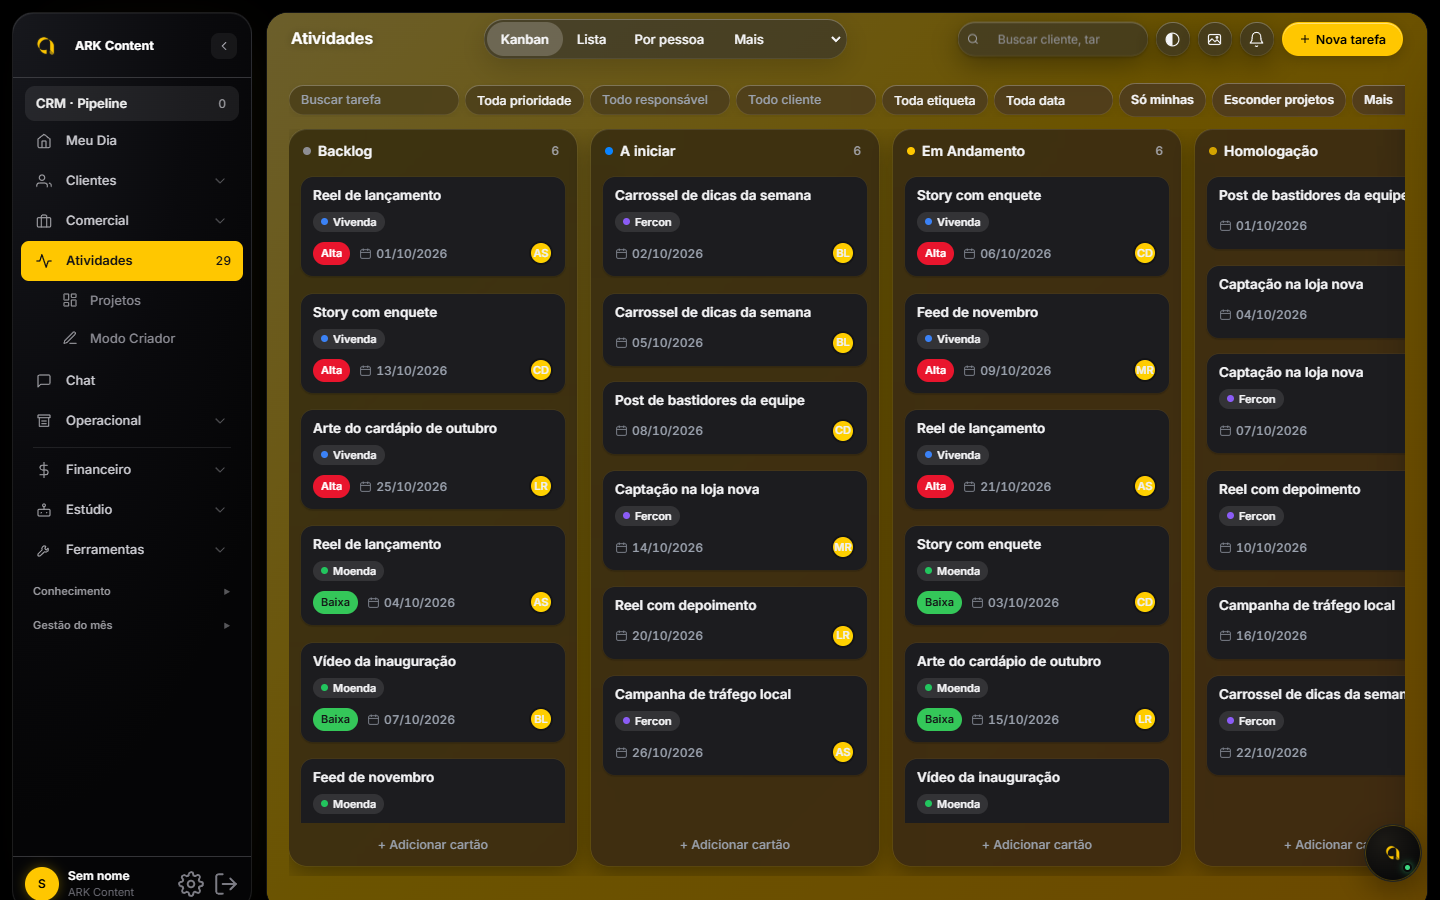
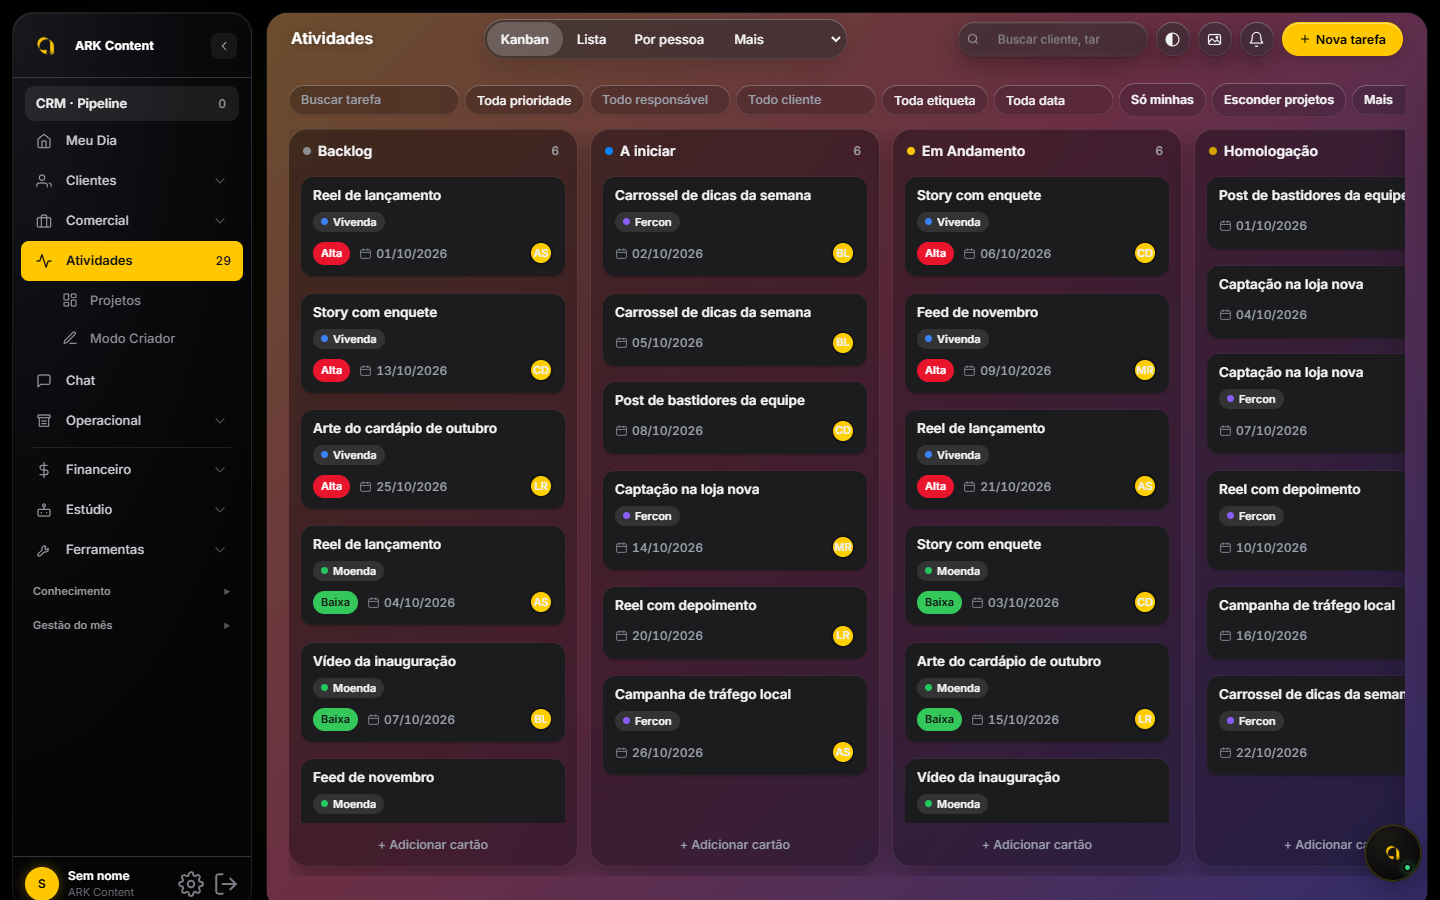
Atividades: fundo padrão volta a ser o gradiente do piloto; amarelo vira opção; marcador 20260929d-fundo-do-piloto
Pedido do Gabriel (28/09): o amarelo "ficou paia"; o piloto aprovado
usava o gradiente laranja, rosa e roxo. Quem nunca escolheu fundo passa a
ver o gradiente; o amarelo continua no botão Fundo.
Teste deploy/teste-quadro.py agora exige o gradiente do piloto como
padrão: RED antes, GREEN depois. arrastar, mobile, hig e build OK.

Claude-Session: https://claude.ai/code/session_01KJbxYq7eWrqoC6iFvLdahp

Changed region(s): [[0.1875, 0.0, 1.0, 1.0]]

diff --git a/public/workflowark-quadro-20260929a.js b/public/workflowark-quadro-20260929a.js
@@ -1,15 +1,15 @@
 /* WorkFlowArk · aba Atividades no piloto Liquid Glass aprovado (28/09/2026).
    - Rolagem livre estilo Trello: arrastar o fundo do quadro (ou o fundo da coluna) com o mouse rola na horizontal,
      com inércia (projeção de momento da Apple). Cartão, botão e campo não iniciam o arraste do quadro.
-   - Plano de fundo por pessoa neste aparelho: amarelo por padrão, gradientes prontos ou uma foto.
+   - Plano de fundo por pessoa neste aparelho: gradiente do piloto por padrão, amarelo e outros gradientes, ou uma foto.
    - Refração de Liquid Glass nas cápsulas da barra do topo e da barra de vistas (só no Chrome; nos outros fica o desfoque).
    Teste: python deploy/teste-quadro.py */
 (function () {
   'use strict';
   var CHAVE = 'wfa-quadro-fundo';
   var FUNDOS = [
-    'linear-gradient(135deg,#FFE066 0%,#FFC700 45%,#FFAE00 100%)',
-    'linear-gradient(135deg,#ffb86b,#ff6fa3 45%,#7b6cff)',
+    'linear-gradient(135deg,#ffb86b,#ff6fa3 45%,#7b6cff)', // padrão: o gradiente do piloto aprovado
+    'linear-gradient(135deg,#FFE066 0%,#FFC700 45%,#FFAE00 100%)', // amarelo ARK, opção
     'linear-gradient(135deg,#4facfe,#00f2fe)',
     'linear-gradient(135deg,#43e97b,#38f9d7)',
     'linear-gradient(135deg,#fa709a,#fee140)',
@@ -74,7 +74,7 @@
     pop = document.createElement('div');
     pop.className = 'qf-pop'; pop.setAttribute('role', 'dialog'); pop.setAttribute('aria-label', 'Plano de fundo do quadro');
     var h = '<div class="qf-tit">Plano de fundo do quadro</div><div class="qf-grade">';
-    FUNDOS.forEach(function (f, j) { h += '<button type="button" class="qf-amostra" style="background:' + f + '" aria-label="' + (j ? 'Fundo ' + (j + 1) : 'Amarelo ARK') + '" data-i="' + j + '"></button>'; });
+    FUNDOS.forEach(function (f, j) { h += '<button type="button" class="qf-amostra" style="background:' + f + '" aria-label="' + (j === 1 ? 'Amarelo ARK' : j ? 'Fundo ' + (j + 1) : 'Gradiente do piloto') + '" data-i="' + j + '"></button>'; });
     h += '</div><label class="qf-foto"><svg viewBox="0 0 24 24" width="16" height="16" fill="none" stroke="currentColor" stroke-width="1.8" stroke-linecap="round"><path d="M12 15V5M7.8 9.2L12 5l4.2 4.2M5 16v2.5A1.5 1.5 0 0 0 6.5 20h11a1.5 1.5 0 0 0 1.5-1.5V16"/></svg>Usar uma foto minha<input type="file" accept="image/*" hidden></label>';
     pop.innerHTML = h;
     document.body.appendChild(pop);

diff --git a/public/workflowark-quadro-20260929a.css b/public/workflowark-quadro-20260929a.css
@@ -1,13 +1,13 @@
 /* WorkFlowArk · aba Atividades no piloto Liquid Glass aprovado (28/09/2026).
-   Quadro estilo Trello sobre plano de fundo (amarelo por padrão), colunas em vidro fosco, cartões sólidos,
+   Quadro estilo Trello sobre plano de fundo (gradiente do piloto por padrão, amarelo como opção), colunas em vidro fosco, cartões sólidos,
    controles em cápsulas de vidro. Sidebar não muda (preta, ícones neutros). Teste: python deploy/teste-quadro.py */
 
 /* ---------- plano de fundo da página ---------- */
 :is(body.aura-dark,body.aura-light) #page-tarefas{
-  background:var(--quadro-fundo,linear-gradient(135deg,#FFE066 0%,#FFC700 45%,#FFAE00 100%))!important;
+  background:var(--quadro-fundo,linear-gradient(135deg,#ffb86b,#ff6fa3 45%,#7b6cff))!important;
   background-attachment:local!important;min-height:100%}
 /* no escuro o fundo escurece para o texto claro manter contraste */
-body.aura-dark #page-tarefas{background:linear-gradient(rgba(0,0,0,.58),rgba(0,0,0,.58)),var(--quadro-fundo,linear-gradient(135deg,#FFE066 0%,#FFC700 45%,#FFAE00 100%))!important;background-attachment:local!important}
+body.aura-dark #page-tarefas{background:linear-gradient(rgba(0,0,0,.58),rgba(0,0,0,.58)),var(--quadro-fundo,linear-gradient(135deg,#ffb86b,#ff6fa3 45%,#7b6cff))!important;background-attachment:local!important}
 /* título e textos soltos sobre o fundo */
 body.aura-light #page-tarefas :is(.page-title h1,.page-title h1 *){color:#1D1D1F!important}
 body.aura-light #page-tarefas .page-title p,body.aura-light #page-tarefas #sync-status{color:rgba(0,0,0,.72)!important}

diff --git a/public/workflowark.html b/public/workflowark.html
@@ -1,4 +1,4 @@
-<!-- build 20260929c-quadro-igual-piloto -->
+<!-- build 20260929d-fundo-do-piloto -->
 <html lang="pt-BR">
 <head>
 <meta charset="utf-8">

diff --git a/deploy/teste-quadro.py b/deploy/teste-quadro.py
@@ -3,7 +3,7 @@
 Uso: python deploy/teste-quadro.py [url-base]    (sai 1 se alguma regra quebrar)
 
 1. Sem escolha salva, o tema abre claro (sidebar continua preta).
-2. O quadro tem fundo amarelo por padrão.
+2. O quadro abre com o gradiente do piloto (laranja, rosa e roxo); amarelo é opção.
 3. Arrastar o fundo do quadro com o mouse rola na horizontal (rolagem livre, estilo Trello).
 4. Arrastar a partir de um cartão NÃO rola o quadro (o arrasto do cartão é outro gesto).
 5. Fundo escolhido fica salvo e volta depois de recarregar.
@@ -48,8 +48,9 @@ with sync_playwright() as pw:
         falhas.append('tema padrão não é claro (body: %s)' % classe)
     p.evaluate("() => document.querySelector('[data-nav=tarefas]').click()"); p.wait_for_timeout(900)
     fundo = p.evaluate("() => { const s = getComputedStyle(document.getElementById('page-tarefas')); return s.backgroundImage + ' | ' + s.backgroundColor; }")
-    if not any(k in fundo for k in ('255, 199, 0', '255, 214, 0', '255, 204, 0', '#ffc700')):
-        falhas.append('quadro sem fundo amarelo padrão (%s)' % fundo[:120])
+    # padrão = gradiente do piloto aprovado (laranja, rosa e roxo); o amarelo virou opção (pedido do Gabriel 28/09)
+    if not all(k in fundo for k in ('255, 184, 107', '255, 111, 163', '123, 108, 255')):
+        falhas.append('quadro sem o gradiente do piloto como padrão (%s)' % fundo[:120])
     col = p.evaluate("() => { const c = document.querySelector('#task-board .task-col'); const s = getComputedStyle(c); return { bg: s.backgroundColor, bf: s.backdropFilter }; }")
     if 'blur' not in (col['bf'] or '') or (len(cor(col['bg'])) > 3 and cor(col['bg'])[3] >= .95) or (len(cor(col['bg'])) == 3):
         falhas.append('coluna não é vidro fosco (%s, %s)' % (col['bg'], col['bf']))
@@ -109,4 +110,4 @@ with sync_playwright() as pw:
 if srv: srv.shutdown()
 if falhas:
     print('FALHA (%d)' % len(falhas)); [print(' -', f) for f in falhas]; sys.exit(1)
-print('OK: tema claro padrão, fundo amarelo, rolagem livre, cartão não rola, fundo salvo, colunas de vidro')
+print('OK: tema claro padrão, gradiente do piloto, rolagem livre, cartão não rola, fundo salvo, colunas de vidro')
